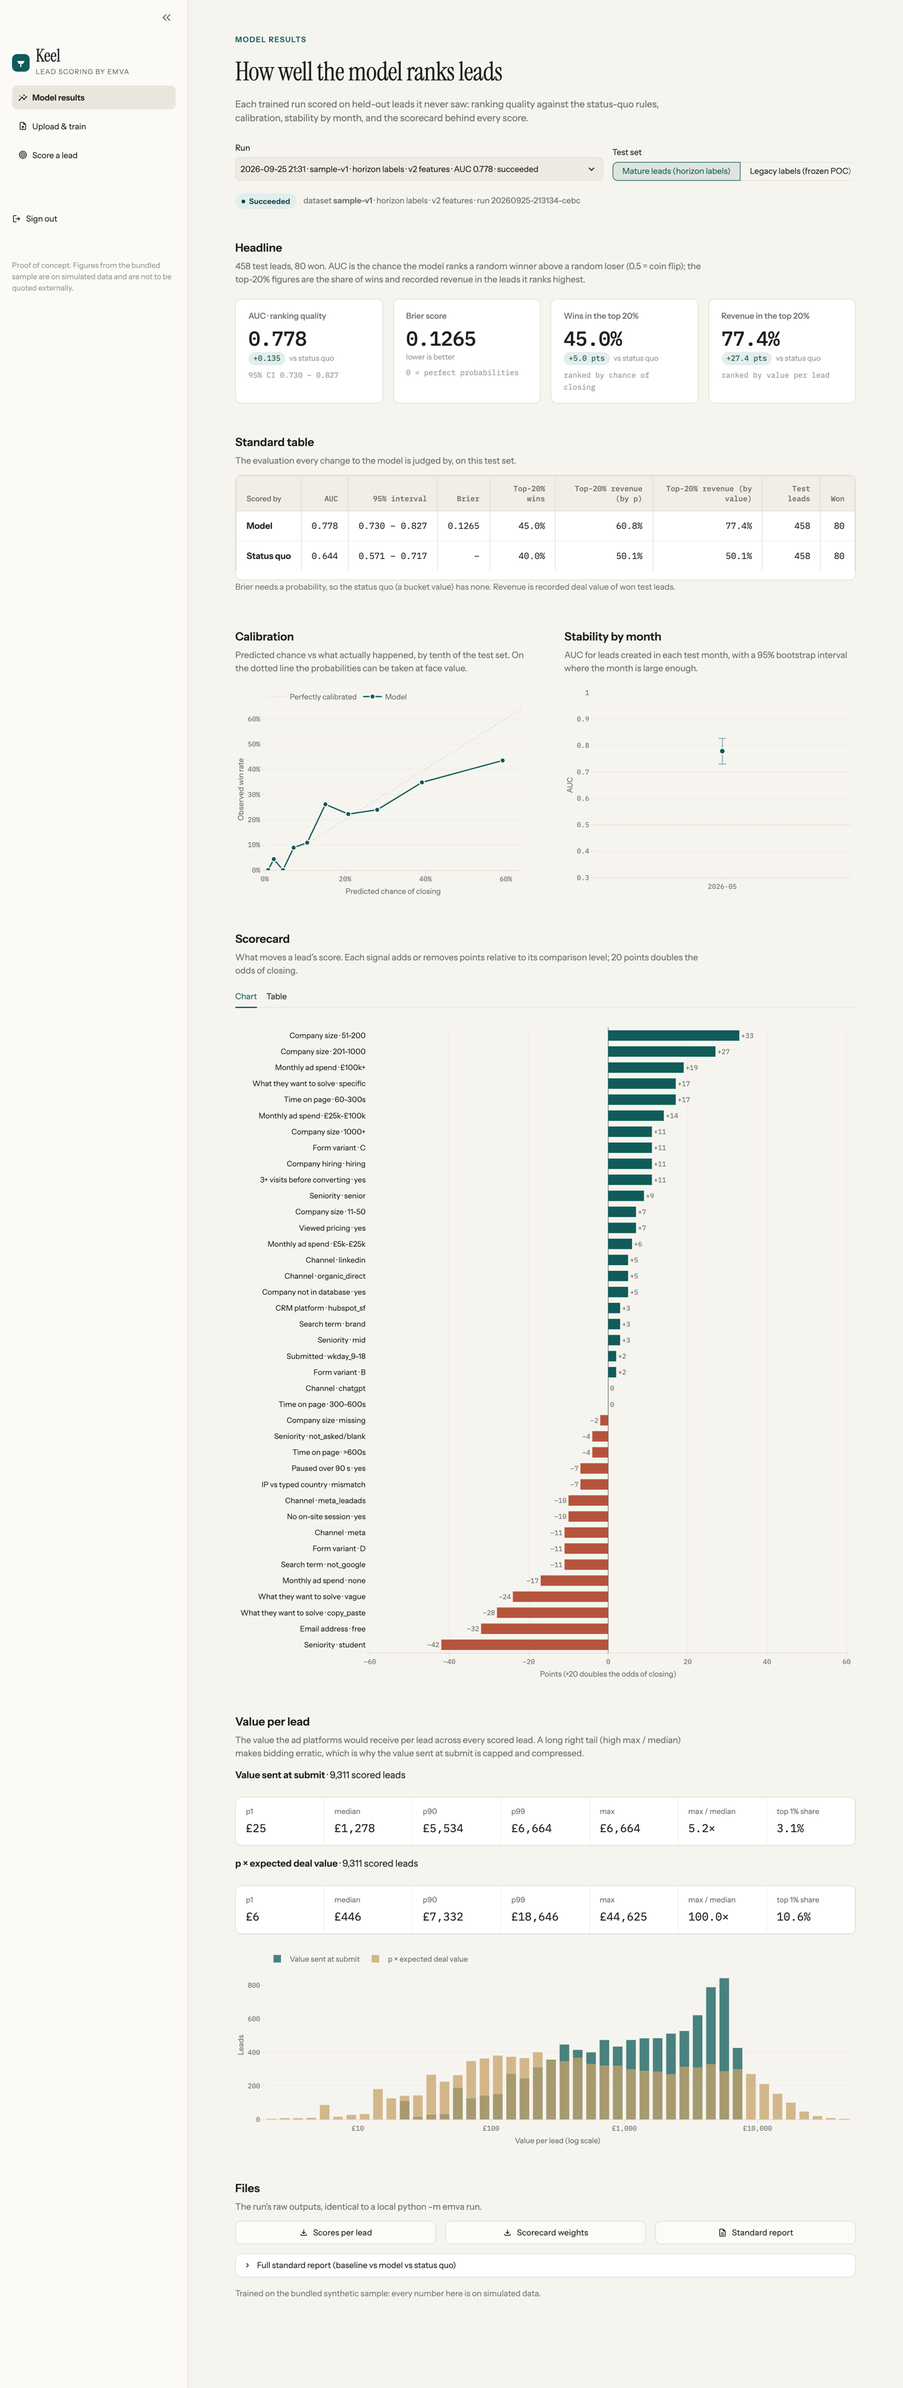
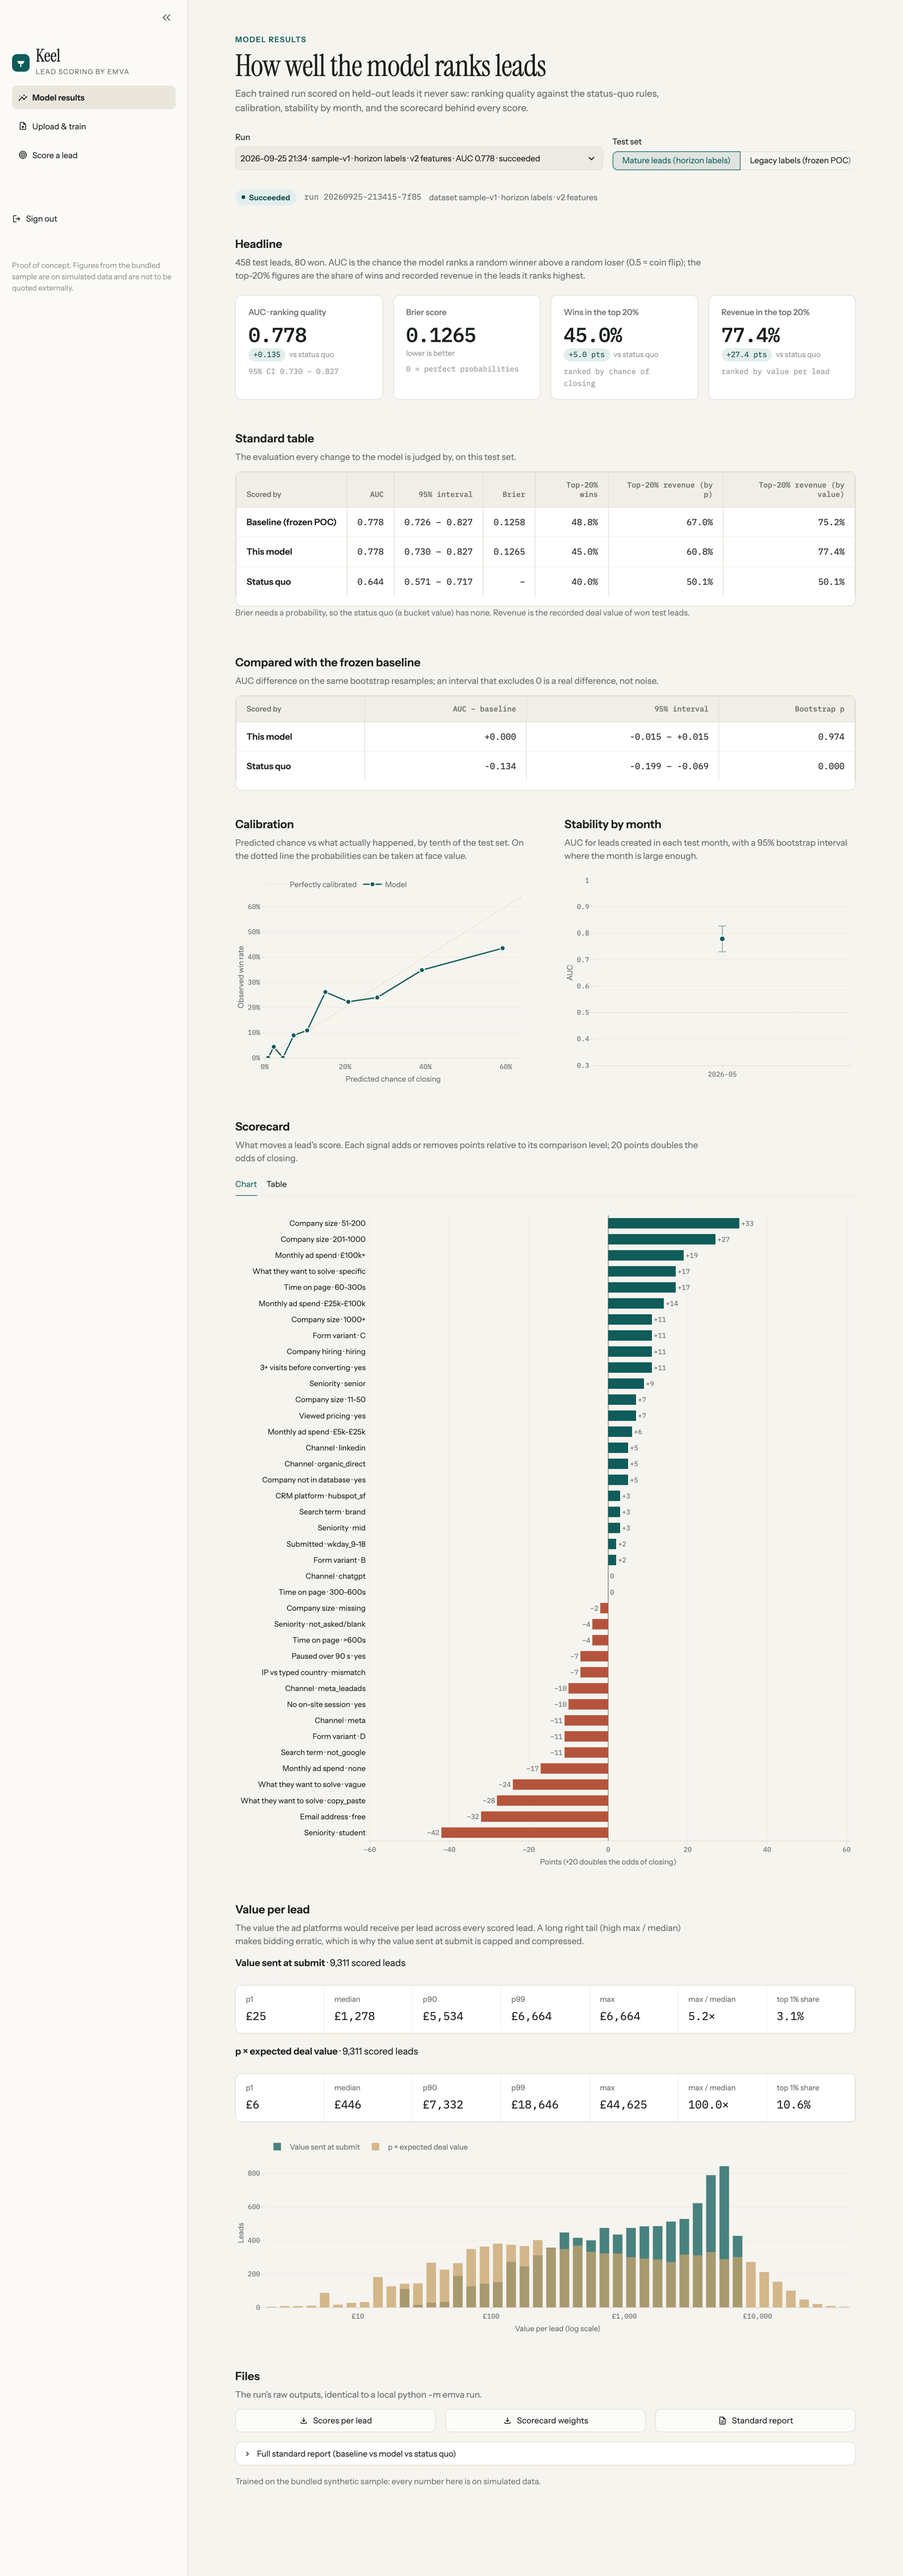
Docs: orchestrator rulings R17-R21, ADR 0019 (hosted app), Phase 8 status rows, refreshed screenshots

diff --git a/reports/app.md b/reports/app.md
@@ -23,17 +23,21 @@ websocket connection).
   two definitions of `emva.eval.report.frozen_test_labels`.
 - **KPI strip**: AUC with its 95% bootstrap CI (1,000 resamples, seed 0), Brier, share of wins and of recorded
   revenue in the top 20%, each with its delta against the status-quo rules.
-- **Standard table** (model vs status quo), **calibration by decile** (predicted vs observed, diagonal),
+- **Standard table** from `emva.eval.report.headline_frame` / `paired_frame`: the frozen baseline (its script is
+  run on the run's dataset), this model and the status quo, then the paired AUC comparison against the baseline.
+  Without `status_quo_rules.json` the status-quo row is omitted and the page says so. **Calibration by decile** (predicted vs observed, diagonal),
   **AUC by month** with bootstrap error bars for months of 30+ leads, the **scorecard** as a signed bar chart
   (accent = raises the score, warm red = lowers it) and as a sortable table with strength bars and odds
   multipliers, and the **value per lead** stats (p1 / median / p90 / p99 / max, max/median, top-1% share of
   `value_at_submit` and `value_formula`) with a log-scale histogram.
 - Downloads of `scores.csv`, `weights.csv` and the run's standard report, which is also rendered in an expander.
 
-Every frame is computed by `app/results.py` from the run's `scores.csv` / `weights.csv` with `emva.eval` code
-(`metrics.calibration_by_decile`, `metrics.auc_by_month`, `metrics.top_share`, `bootstrap.auc_ci`,
-`value_report.scale_stats`, `status_quo.status_quo_value`); nothing is parsed out of `report.txt`, which is
-kept only for display. The baseline column lives in the report (it needs the frozen baseline script run).
+Every frame is computed by `app/results.py` from the run's `scores.csv` / `weights.csv` (read with
+`float_precision="round_trip"`, so the page uses exactly the floats the pipeline wrote) with `emva.eval` code
+(`report.headline_frame` / `paired_frame` / `run_baseline` / `frozen_test_labels`, `metrics.calibration_by_decile`,
+`metrics.auc_by_month`, `bootstrap.auc_ci`, `value_report.scale_stats`, `status_quo.status_quo_value`); nothing is
+parsed out of `report.txt`, which is shown with the dataset's name in place of its server path. A value column
+whose median is not positive gets a caption instead of stats.
 
 ## Upload & train
 
@@ -65,8 +69,11 @@ python -m emva.eval.report --data <dataset> --label-mode horizon --feature-set v
 
 The report runs only when the dataset has `status_quo_rules.json`; a failed report leaves the run
 `succeeded` with the failure in the log. The job records the outcome in `registry.json` itself, so a run
-finishes with no browser open; a run whose job process disappears (server restart) is marked `failed` when
-next shown. On the full v1 sample: training ~4 s, report ~40 s.
+finishes with no browser open. Listing runs checks every `running` run's job process by pid *and* command line
+(`/proc/<pid>/cmdline` on Linux, `ps` elsewhere; the command must be `app.job` with that run id, since pids restart
+low in a new container) and marks a vanished job `failed` ("interrupted"). The job gets a filtered environment:
+PATH, HOME, LANG/LC_*, PYTHONPATH, TMPDIR, DATA_DIR and PYTHONUNBUFFERED only; never `APP_PASSWORD` or
+`ANTHROPIC_*`. The training log names the dataset and run instead of server paths. On the full v1 sample: training ~4 s, report ~40 s.
 
 ## Score a lead
 
@@ -74,16 +81,19 @@ next shown. On the full v1 sample: training ~4 s, report ~40 s.
 
 A model picker (completed runs with `model.joblib`) and a form generated from `emva.scoring.submit_time_fields()`,
 grouped as Form answers / Contact / Attribution / Session, prefilled with a plausible lead whose company is the
-first row of the dataset's `companies.csv`. Every session field is filled with a typical visit, because a blank
+first row of the dataset's `companies.csv`, or with a real lead from the training data by `lead_id`
+(`scoring.values_from_lead`). Every session field is filled with a typical visit, because a blank
 one makes v2 set `session_missing=yes`; the form says so. The result card shows P(close) with the training win
 rate for context, the expected deal value if won, the value sent at submit with the fitted transform spelled out
-(cap, compression, floor), and bot / duplicate flags (a lead scored alone is never a duplicate; bots are flagged
+(cap, compression, floor), a warning naming any blank session fields, and bot / duplicate flags (a lead scored alone is never a duplicate; bots are flagged
 and still scored). Below it, the points breakdown: starting score, signals and total, and a signed bar per
 active signal. `UnknownLevelError` and bad input become a plain message. Scoring goes through `app/scoring.py`
 -> `emva.scoring.lead_from_form` / `score_leads` / `points_breakdown`; no feature is re-implemented.
 
 **ulp caveat (ADR 0018).** A lead scored alone can differ from the batch run's score in the last bits (BLAS
-kernels depend on the batch shape): up to 64 ulp. `tests/test_app_scoring.py` compares with that tolerance.
+kernels depend on the batch shape): up to 64 ulp (R17); measured 5 ulp on the v1 sample once `scores.csv` is read
+with round-trip parsing (the default parser alone added ~110). `tests/test_app_scoring.py` compares historical leads
+with that tolerance and a form lead with `score_leads` on the same row exactly.
 
 ## Design
 
@@ -109,11 +119,21 @@ states) in `app/components.py`, the Plotly template in `app/charts.py`, the widg
 
 ## Tests
 
-`tests/test_app_storage.py` (17), `test_app_validation.py` (18), `test_app_training.py` (9, one end-to-end job on
-a 1,000-lead v1 subsample, shared at session scope), `test_app_scoring.py` (9, including the password gate),
-`test_app_smoke.py` (6, Streamlit `AppTest`: unset password refuses, wrong password blocked, every page renders,
-a lead is scored, sign out). About 35 s together.
+`tests/test_app_storage.py` (20, including interrupted-run detection by dead pid and by a pid that is another
+process), `test_app_validation.py` (18), `test_app_training.py` (12: pre-training summary vs the pipeline, one
+end-to-end job on a 1,000-lead v1 subsample shared at session scope, the report's own row in `report.txt`, the
+job's filtered environment, results without rules, value guard), `test_app_scoring.py` (7), `test_app_auth.py` (2),
+`test_app_smoke.py` (8, Streamlit `AppTest`: unset password refuses, wrong password blocked, every page renders, a
+lead is scored from the example and from a dataset lead, escaped error text, sign out). Plus `test_deploy_files.py`
+(the `make docker` recipe never echoes the password, `.dockerignore` excludes `runs`, `serve.sh` refuses an
+unwritable `DATA_DIR`) and `test_scoring.py` (`is_blank`, `FieldType`).
 
 ## Orchestrator decisions
 
-_To be filled at review._
+- R17 (ADR 0018): single-lead scores may differ from the batch run by ≤ 64 ulp; whole-batch must be byte-equal.
+- R18: page (a) shows the full standard table from `emva.eval.report` (baseline, model, status quo); without rules the status-quo row is omitted and said so.
+- R19: the page is named "Upload & train" (it does both); README follows the UI. Channel is derived from UTM source/medium by the training feature code, so the form asks for UTM fields and shows the derived channel in the points breakdown.
+- R20: Railway config-as-code is deprecated; service settings are applied on the service, `railway.toml` is the in-repo record. Secrets are entered by the user in the dashboard. `RAILWAY_RUN_UID=0` is required for the volume; `scripts/serve.sh` chowns `/data` and drops to uid 1000.
+- R21: `python:3.11-slim` stays a floating tag as the spec asked; requirements are exact pins. Commit 907f3db was larger than the convention; noted, not rewritten.
+
+R18-R21 and the app's trust model are summarised in `docs/adr/0019-hosted-app.md` (Proposed).

diff --git a/docs/adr/0019-hosted-app.md b/docs/adr/0019-hosted-app.md
@@ -1,0 +1,42 @@
+# 0019. Hosted app (Keel): full standard table, UI naming, Railway deployment, trust model
+
+- Status: Proposed
+- Date: 2026-09-26
+- Source: Phase 8 review of branch `app-ui` (rulings R18-R21, `reports/app.md`); `app/`, `Dockerfile`,
+  `scripts/serve.sh`, `railway.toml`, `docs/deploy.md`
+
+## Context
+
+Phase 8 put a Streamlit app (Keel) in front of the pipeline so an EMVA colleague can read results, upload CRM
+exports, train and score one lead. The two-axis review asked for rulings on what the results page must show, how
+the UI and the docs name things, how the Railway service is configured, and what the app does and does not protect.
+
+## Decision
+
+1. **R18, full standard table.** The results page shows the standard table from `emva.eval.report`'s own
+   functions (`headline_frame`, `paired_frame`): the frozen baseline, this run's model and the status quo, plus
+   the paired AUC comparison against the baseline. Without `status_quo_rules.json` the status-quo row is omitted
+   and the page says so. The app never re-derives a metric the report already computes.
+2. **R19, naming.** The page is "Upload & train" (it does both) and the README follows the UI. Channel is
+   derived from UTM source/medium by the training feature code, so the form asks for UTM fields and the points
+   breakdown shows the derived channel.
+3. **R20, Railway.** Railway config-as-code is deprecated: service settings are applied on the service and
+   `railway.toml` is the in-repo record. Secrets are entered by the user in the dashboard. `RAILWAY_RUN_UID=0` is
+   required for the volume; `scripts/serve.sh` chowns `/data` and drops to uid 1000.
+4. **R21, pins.** `python:3.11-slim` stays a floating tag as the spec asked; requirements are exact pins.
+
+## Trust model
+
+- **One shared password** (`APP_PASSWORD`, constant-time comparison, 1 s delay after a failure); the app refuses to
+  open when it is unset. No per-user accounts and no per-user audit: the registry records runs, not people.
+- **One service, one process.** Training runs as a subprocess (`python -m app.job`) on the same machine, with a
+  filtered environment (no `APP_PASSWORD`, no `ANTHROPIC_*`); runs interrupted by a restart are marked failed.
+- **No ground truth.** The image excludes `data/**/ground_truth*` (`.dockerignore`); the app refuses uploads named
+  `ground_truth*` by name without opening them; `grep -rn ground_truth app/` returns only that check.
+- User-supplied text (file names, errors, dataset names) is escaped at the HTML boundary (`app.components.esc`).
+
+## Consequences
+
+- The results page runs the frozen baseline script on the run's dataset (a few seconds, cached per process).
+- Anyone with the password can train, read every run and delete nothing; datasets and runs are removed on the volume.
+- Moving to multi-user or multi-customer use needs real authentication and an audit log first (ADR 0017).

diff --git a/docs/ARCHITECTURE.md b/docs/ARCHITECTURE.md
@@ -235,10 +235,10 @@ flowchart LR
 
 | module | owns |
 |---|---|
-| `app/storage.py` | Data root layout (`datasets/<name>/`, `runs/<run_id>/`, `registry.json`), `Dataset` / `Run`, slug names, the training-file allow-list (a `ground_truth*` name is refused by name, never opened), atomic JSON writes under an `fcntl` lock, the read-only bundled sample (`data/v1`, training files only) |
+| `app/storage.py` | Data root layout; `list_runs` marks a `running` run failed when its job process is gone (pid + command-line check) (`datasets/<name>/`, `runs/<run_id>/`, `registry.json`), `Dataset` / `Run`, slug names, the training-file allow-list (a `ground_truth*` name is refused by name, never opened), atomic JSON writes under an `fcntl` lock, the read-only bundled sample (`data/v1`, training files only) |
 | `app/validation.py` | `validate_files` -> `ValidationReport(errors, warnings, summary)` of `Issue(file, column, message, rows)`; required columns derived from `emva.scoring.submit_time_fields` and what `emva.io` / `emva.eval.status_quo` read; never raises on user input |
 | `app/training.py`, `app/job.py` | `TrainingConfig` (label mode, feature set), the CLI and report argv, `pre_training_summary`, `start_training` (spawns the job, output to `train.log`), `finish_run` (parses the printed summary), `reconcile` (a vanished job becomes `failed`). The job runs the CLI, then the report when the dataset has rules, then records the outcome itself, so a run completes with no browser open |
-| `app/results.py` | Results-page frames from `scores.csv` / `weights.csv` + the dataset: `evaluate` (frozen mature or legacy test set), `headline`, `calibration`, `auc_month` (bootstrap CI per month), `scorecard` (plain feature names), `value_distribution`, `training_base_rate`. Nothing is scraped from `report.txt` |
+| `app/results.py` | Results-page frames from `scores.csv` / `weights.csv` (round-trip float parsing) + the dataset: `evaluate` (frozen mature or legacy test set; the report's baseline, model and status-quo `ScoredModel`s), `standard_table` (`emva.eval.report.headline_frame` / `paired_frame`), `calibration`, `auc_month` (bootstrap CI per month), `scorecard` (plain feature names), `value_distribution`, `training_base_rate`. Nothing is scraped from `report.txt` |
 | `app/scoring.py` | Form sections, labels and defaults over `submit_time_fields` (session fields default to a typical visit, because a blank one sets `session_missing`), `values_from_lead`, `score_form`, `describe_transform` |
 | `app/auth.py` | `expected_password` (`APP_PASSWORD`; unset or blank = refuse), `check_password` (`hmac.compare_digest`) |
 | `app/main.py`, `app/ui.py`, `app/views/` | Entrypoint (gate, sidebar, `st.navigation`), cached loaders (`st.cache_data` for evaluation frames, `st.cache_resource` for bundles), the three pages |

diff --git a/docs/adr/README.md b/docs/adr/README.md
@@ -45,3 +45,4 @@ To change a decision, write a new ADR that supersedes the old one and set the ol
 | [0016](0016-context-acceptance-on-coefficients.md) | Context acceptance on coefficients (R12, judged one feature at a time next to the formula): weight CI excludes 0 and lies in the oracle CI; persona pooled to buyer / non_buyer / unclear at the feature level (R13-R15) | Accepted | `phase6-context-agent` |
 | [0017](0017-multi-customer-roadmap.md) | Per-customer LR on the fixed schema first; a hierarchical model (shared prior, per-customer adjustment) is the multi-customer path; the LLM stays a measured feature; ingestion adapters per CRM platform | Proposed | `phase7-production-doc` |
 | [0018](0018-single-lead-scoring-seam.md) | Single-lead scoring (`emva.scoring`) reuses the training path via `model.joblib`; unknown categorical levels raise; small-batch scores equal the batch run to ≤ 64 ulp (BLAS summation order), full batches byte-equal | Proposed | `app-ui` |
+| [0019](0019-hosted-app.md) | Hosted app (Keel): results page shows the full standard table from `emva.eval.report` (baseline, model, status quo); "Upload & train" naming; Railway settings on the service, `RAILWAY_RUN_UID=0`; floating base image, exact pins; shared-password trust model, no ground truth in the image (R18-R21) | Proposed | `app-ui` |

diff --git a/docs/CONTEXT.md b/docs/CONTEXT.md
@@ -164,6 +164,7 @@ it with the paired bootstrap.
 | 4 evaluation hardening | merged (3e374e8) | `phase4-eval-hardening` | `reports/phase4.md` |
 | 6 context agent v2 | merged (9e3dfae) | `phase6-context-agent` | `reports/phase6.md` |
 | 7 production readiness document | merged (fa9bc4d) | `phase7-production-doc` | `reports/production.md`, ADR 0017 (Proposed) |
+| 8 hosted app (Keel) | on branch `app-ui`, not merged | `app-ui` | `reports/app.md`, ADR 0018/0019 (Proposed) |
 
 Open question carried from Phase 1 (not yet ruled): should young `crm_lost` leads be 0 rather than NaN?
 It changes only `scores.csv` today.

diff --git a/CLAUDE.md b/CLAUDE.md
@@ -195,6 +195,7 @@ single leads through `emva.scoring` and computes its charts with `emva.eval`; it
 | 4 evaluation hardening | merged (3e374e8) | `phase4-eval-hardening` | `reports/phase4.md` |
 | 6 context agent v2 | merged (9e3dfae) | `phase6-context-agent` | `reports/phase6.md` |
 | 7 production readiness doc | merged (fa9bc4d) | `phase7-production-doc` | `reports/production.md`, ADR 0017 (Proposed) |
+| 8 hosted app (Keel) | on branch `app-ui`, not merged | `app-ui` | `reports/app.md`, ADR 0018/0019 (Proposed) |
 
 ## Do not
 
